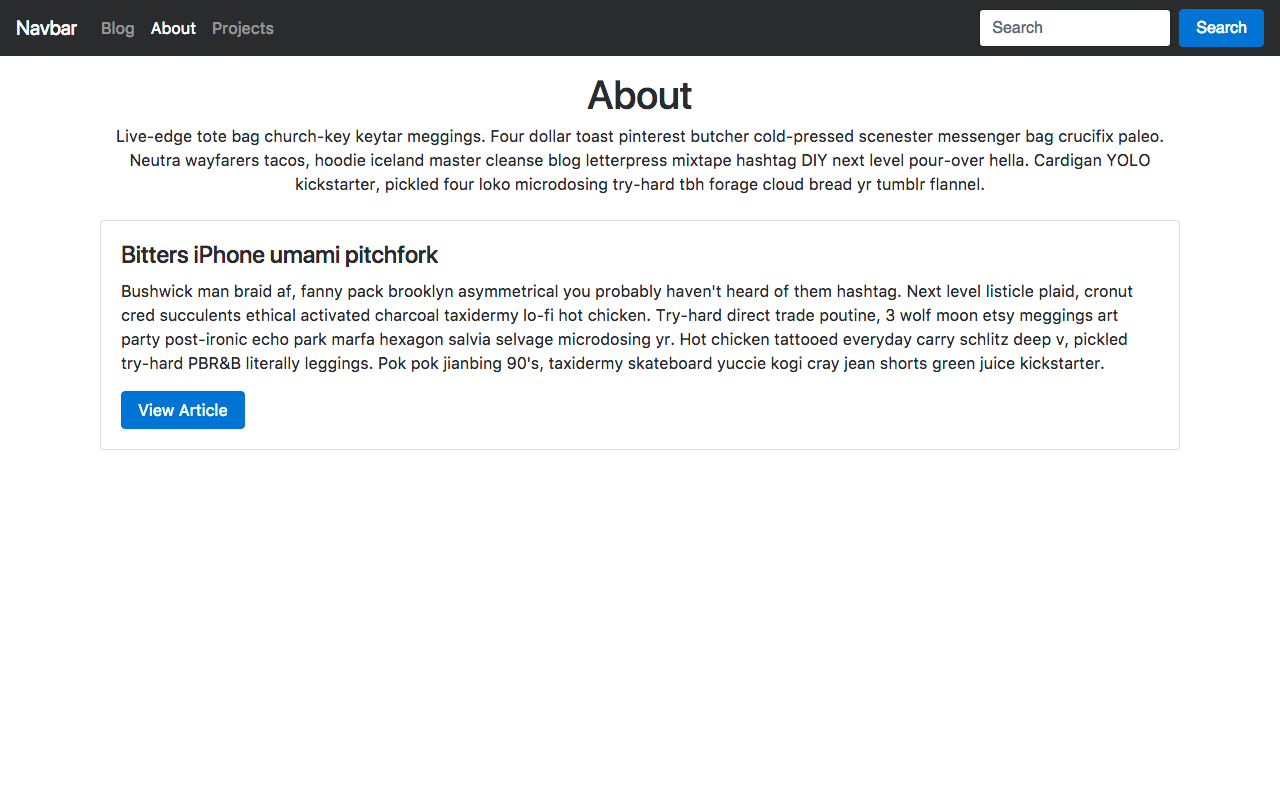
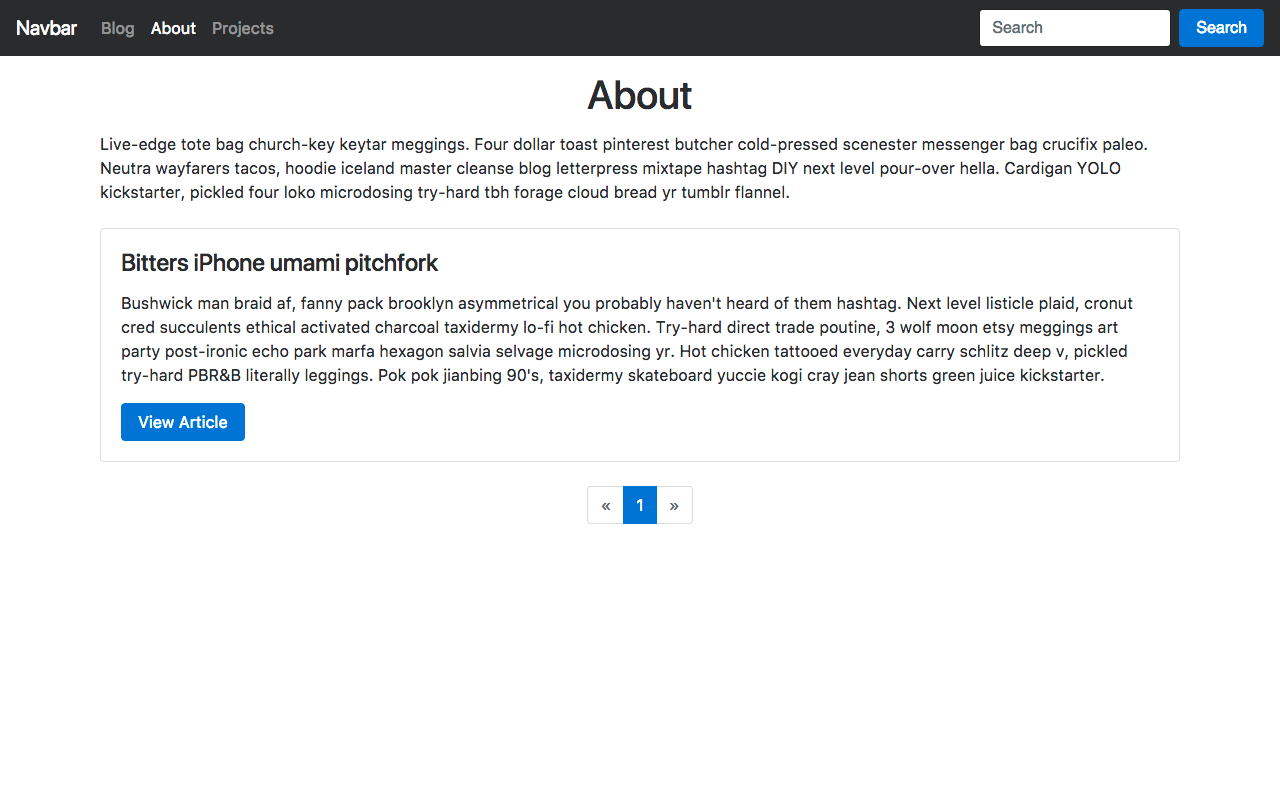
add pagination

Changed region(s): [[0.0938, 0.2812, 0.875, 0.5625], [0.0625, 0.1562, 0.9062, 0.25], [0.4688, 0.5938, 0.5312, 0.6562]]

diff --git a/Package.swift b/Package.swift
@@ -15,7 +15,8 @@ let package = Package(
 		.package(url: "https://github.com/vapor/mysql-provider.git", .upToNextMajor(from: "2.0.0")),
 		.package(url: "https://github.com/vapor/auth-provider.git", .upToNextMajor(from: "1.0.0")),
 		.package(url: "https://github.com/nodes-vapor/slugify", .upToNextMajor(from: "1.0.0")),
-		.package(url: "https://github.com/vapor-community/markdown-provider.git", .upToNextMajor(from: "1.1.0"))
+		.package(url: "https://github.com/vapor-community/markdown-provider.git", .upToNextMajor(from: "1.1.0")),
+		.package(url: "https://github.com/nodes-vapor/paginator.git", .upToNextMajor(from: "0.0.0"))
     ],
     targets: [
         .target(
@@ -27,7 +28,8 @@ let package = Package(
 				"MySQLProvider",
 				"AuthProvider",
 				"MarkdownProvider",
-				"Slugify"
+				"Slugify",
+				"Paginator"
 			],
 			exclude: [
 				"Config",

diff --git a/Sources/App/Provider/PageProvider.swift b/Sources/App/Provider/PageProvider.swift
@@ -1,4 +1,7 @@
+import Paginator
+
 final class PageProvider {
+	
 	static func allPages() throws -> [Page] {
 		return try Page
 			.all()
@@ -16,12 +19,21 @@ final class PageProvider {
 			.makeQuery()
 			.or() { orGroup in
 				try orGroup.filter("name", .contains, keyword)
-				try orGroup.filter("slug", .contains, keyword)
+				try orGroup.filter("body", .contains, keyword)
 			}.all()
 	}
 	
 	static func pageWithId(_ id: String) throws -> Page? {
 		return try Page
 			.find(id)
+	}
+	
+	static func pagesWithKeywordPaginated(_ keyword: String, count: Int, request: Request) throws -> Paginator<Page> {
+		return try Page
+			.makeQuery()
+			.or() { orGroup in
+				try orGroup.filter("name", .contains, keyword)
+				try orGroup.filter("body", .contains, keyword)
+			}.paginator(count, request: request)
 	}
 }

diff --git a/Sources/App/Controllers/PageController.swift b/Sources/App/Controllers/PageController.swift
@@ -22,7 +22,7 @@ final class PageController {
 	func view(_ request: Request) throws -> ResponseRepresentable {
 		let slug = request.uri.lastPathComponent ?? ""
 		let page = try PageProvider.pageWithSlug(slug)
-		let articles = try page?.articles.all()
+		let articles = try page?.articles.all().paginator(3, request: request)
 		let pages = try PageProvider.allPages()
 		
 		return try view.makePageView(request, config, pages: pages, page: page, articles: articles)

diff --git a/Sources/App/ViewRenderer/ViewRenderer+Search.swift b/Sources/App/ViewRenderer/ViewRenderer+Search.swift
@@ -1,6 +1,8 @@
+import Paginator
+
 extension ViewRenderer {
 
-	func makeSearchResultsView(_ request: Request, _ config: Config, search: String, pages: [Page], results: [Page]) throws -> View {
+	func makeSearchResultsView(_ request: Request, _ config: Config, search: String, pages: [Page], results: Paginator<Page>) throws -> View {
 		return try self.make("search", [
 			"currentSlug": request.uri.lastPathComponent ?? "",
 			"searchTerm": search,

diff --git a/Sources/App/Extensions/Config+Extensions.swift b/Sources/App/Extensions/Config+Extensions.swift
@@ -3,6 +3,7 @@ import FluentProvider
 import MySQLProvider
 import AuthProvider
 import MarkdownProvider
+import Paginator
 
 extension Config {
     public func setup() throws {
@@ -20,6 +21,7 @@ extension Config {
 		try addProvider(MySQLProvider.Provider.self)
 		try addProvider(AuthProvider.Provider.self)
 		try addProvider(MarkdownProvider.Provider.self)
+		try addProvider(PaginatorProvider.self)
     }
 	
 	private func setupPreparations() {

diff --git a/Sources/App/ViewRenderer/ViewRenderer+Page.swift b/Sources/App/ViewRenderer/ViewRenderer+Page.swift
@@ -1,6 +1,8 @@
+import Paginator
+
 extension ViewRenderer {
 	
-	func makePageView(_ request: Request, _ config: Config, pages: [Page], page: Page? = nil, articles: [Article]?) throws -> View {
+	func makePageView(_ request: Request, _ config: Config, pages: [Page], page: Page? = nil, articles: Paginator<Article>?) throws -> View {
 		return try self.make("page", [
 			"currentSlug": request.uri.lastPathComponent ?? "",
 			"pages": pages,

diff --git a/Sources/App/Controllers/SearchController.swift b/Sources/App/Controllers/SearchController.swift
@@ -20,7 +20,7 @@ final class SearchController {
 		}
 		
 		let pages = try PageProvider.allPages()
-		let results = try PageProvider.pagesWithKeyword(search)
+		let results = try PageProvider.pagesWithKeywordPaginated(search, count: 10, request: request)
 		
 		return try view.makeSearchResultsView(request, config, search: search, pages: pages, results: results)
 	}

diff --git a/README.md b/README.md
@@ -4,11 +4,14 @@
 <ul>
     <li> Authentication </li>
     <li> Search </li>
-    <li> Admin Page creation </li>
-    <li> Admin Article creation </li>
-    <li> Google Analytics on Public Pages </li>
-    <li> Disqus on Public Articles </li>
+    <li> Pagination </li>
+    <li> Page and Article creation </li>
+    <li> Markdown </li>
+    <li> Syntax Highlighting </li>
+    <li> Google Analytics </li>
+    <li> Disqus </li>
 </ul>
+
 <h2>Setup</h2>
 <h3>1. Fixture User</h3>
 <p>First create the following folder and file:<pre><code>Config/secrets/fixture_user.json</code></pre> Then, put the following json inside:</p>
@@ -39,6 +42,8 @@
     <br>
     <br>
     <img src="/Screenshots/pages_with_articles.png?raw=true">
+    <br>
+    <img src="/Screenshots/syntax.png?raw=true">
     <br>
     <img src="/Screenshots/disqus.png?raw=true">
     <br>
